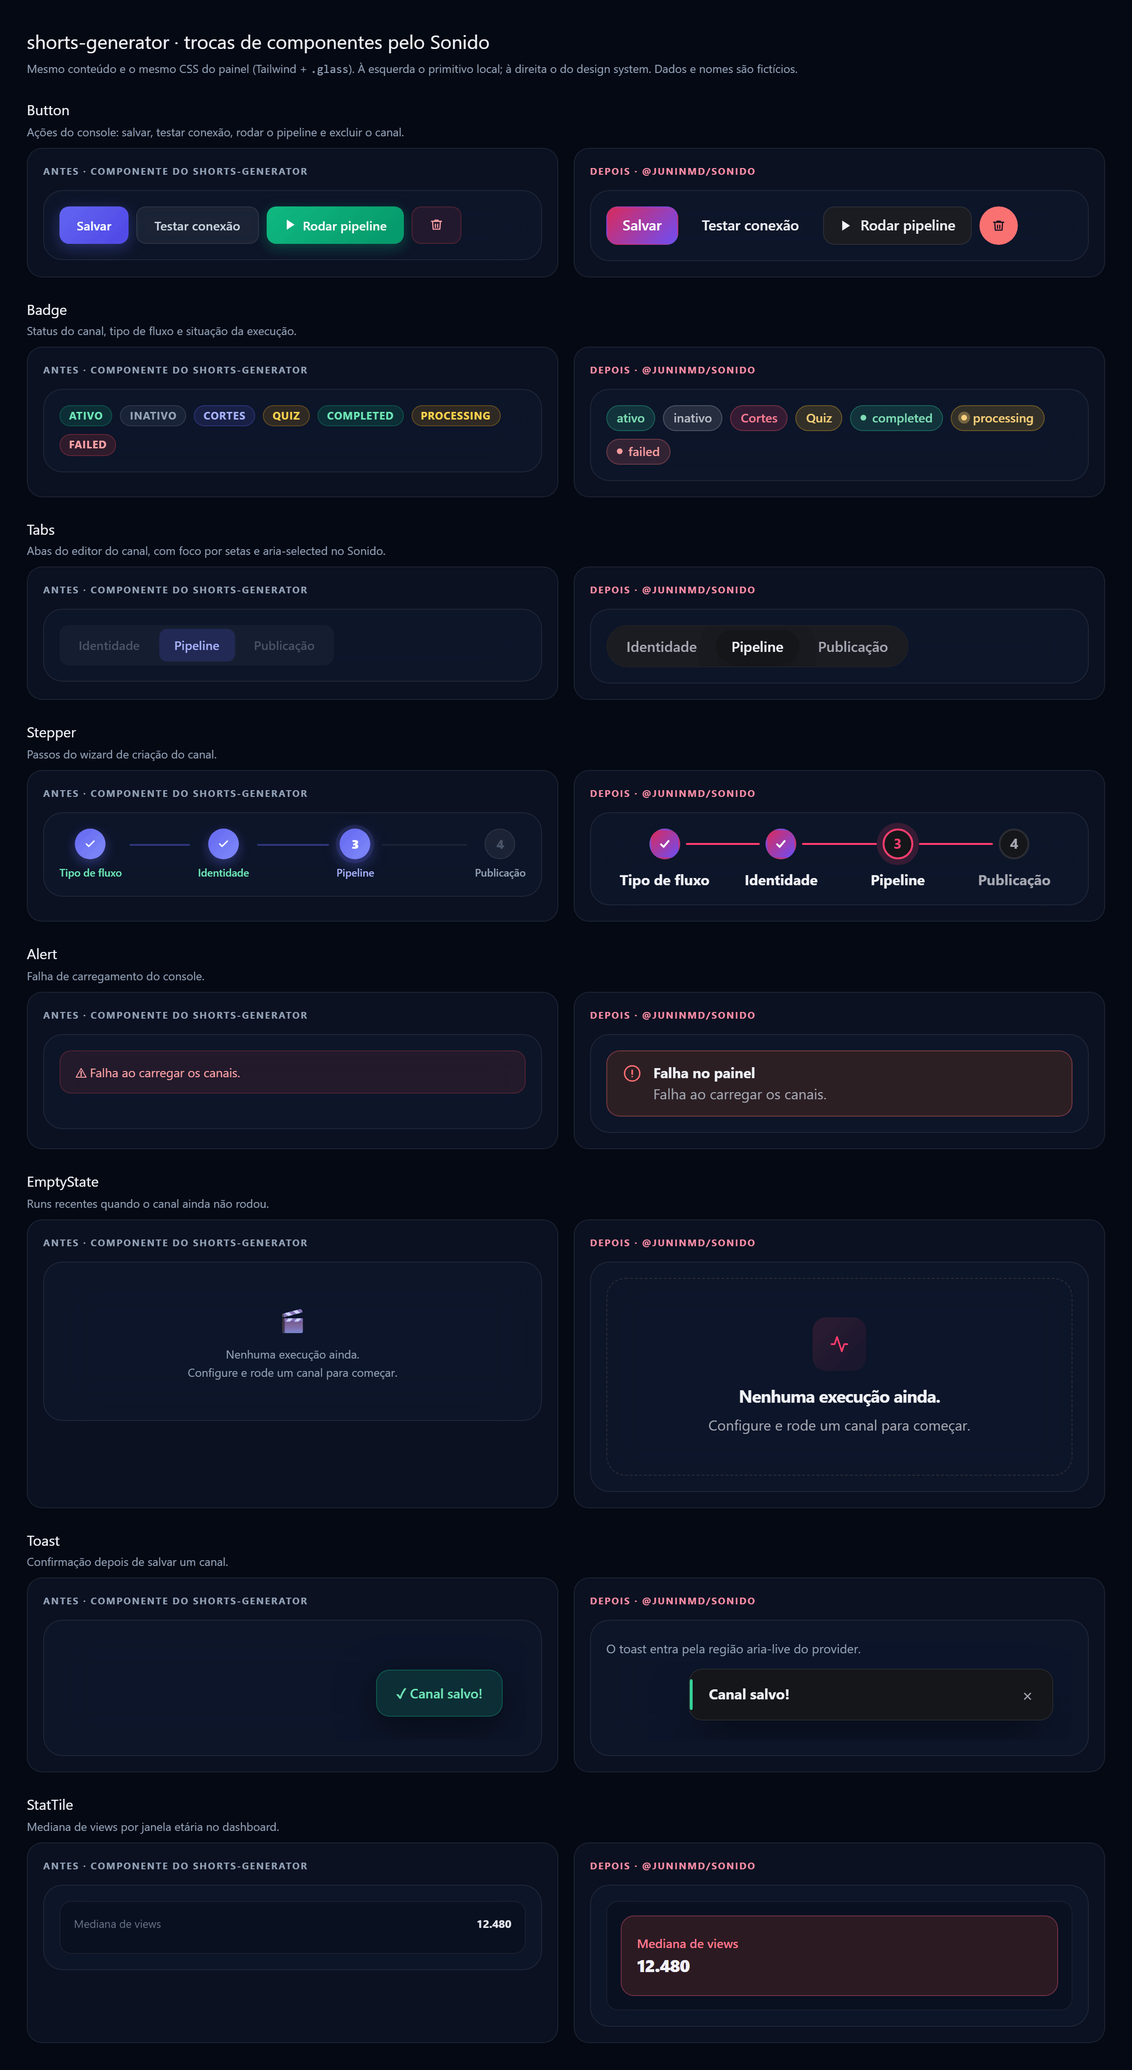
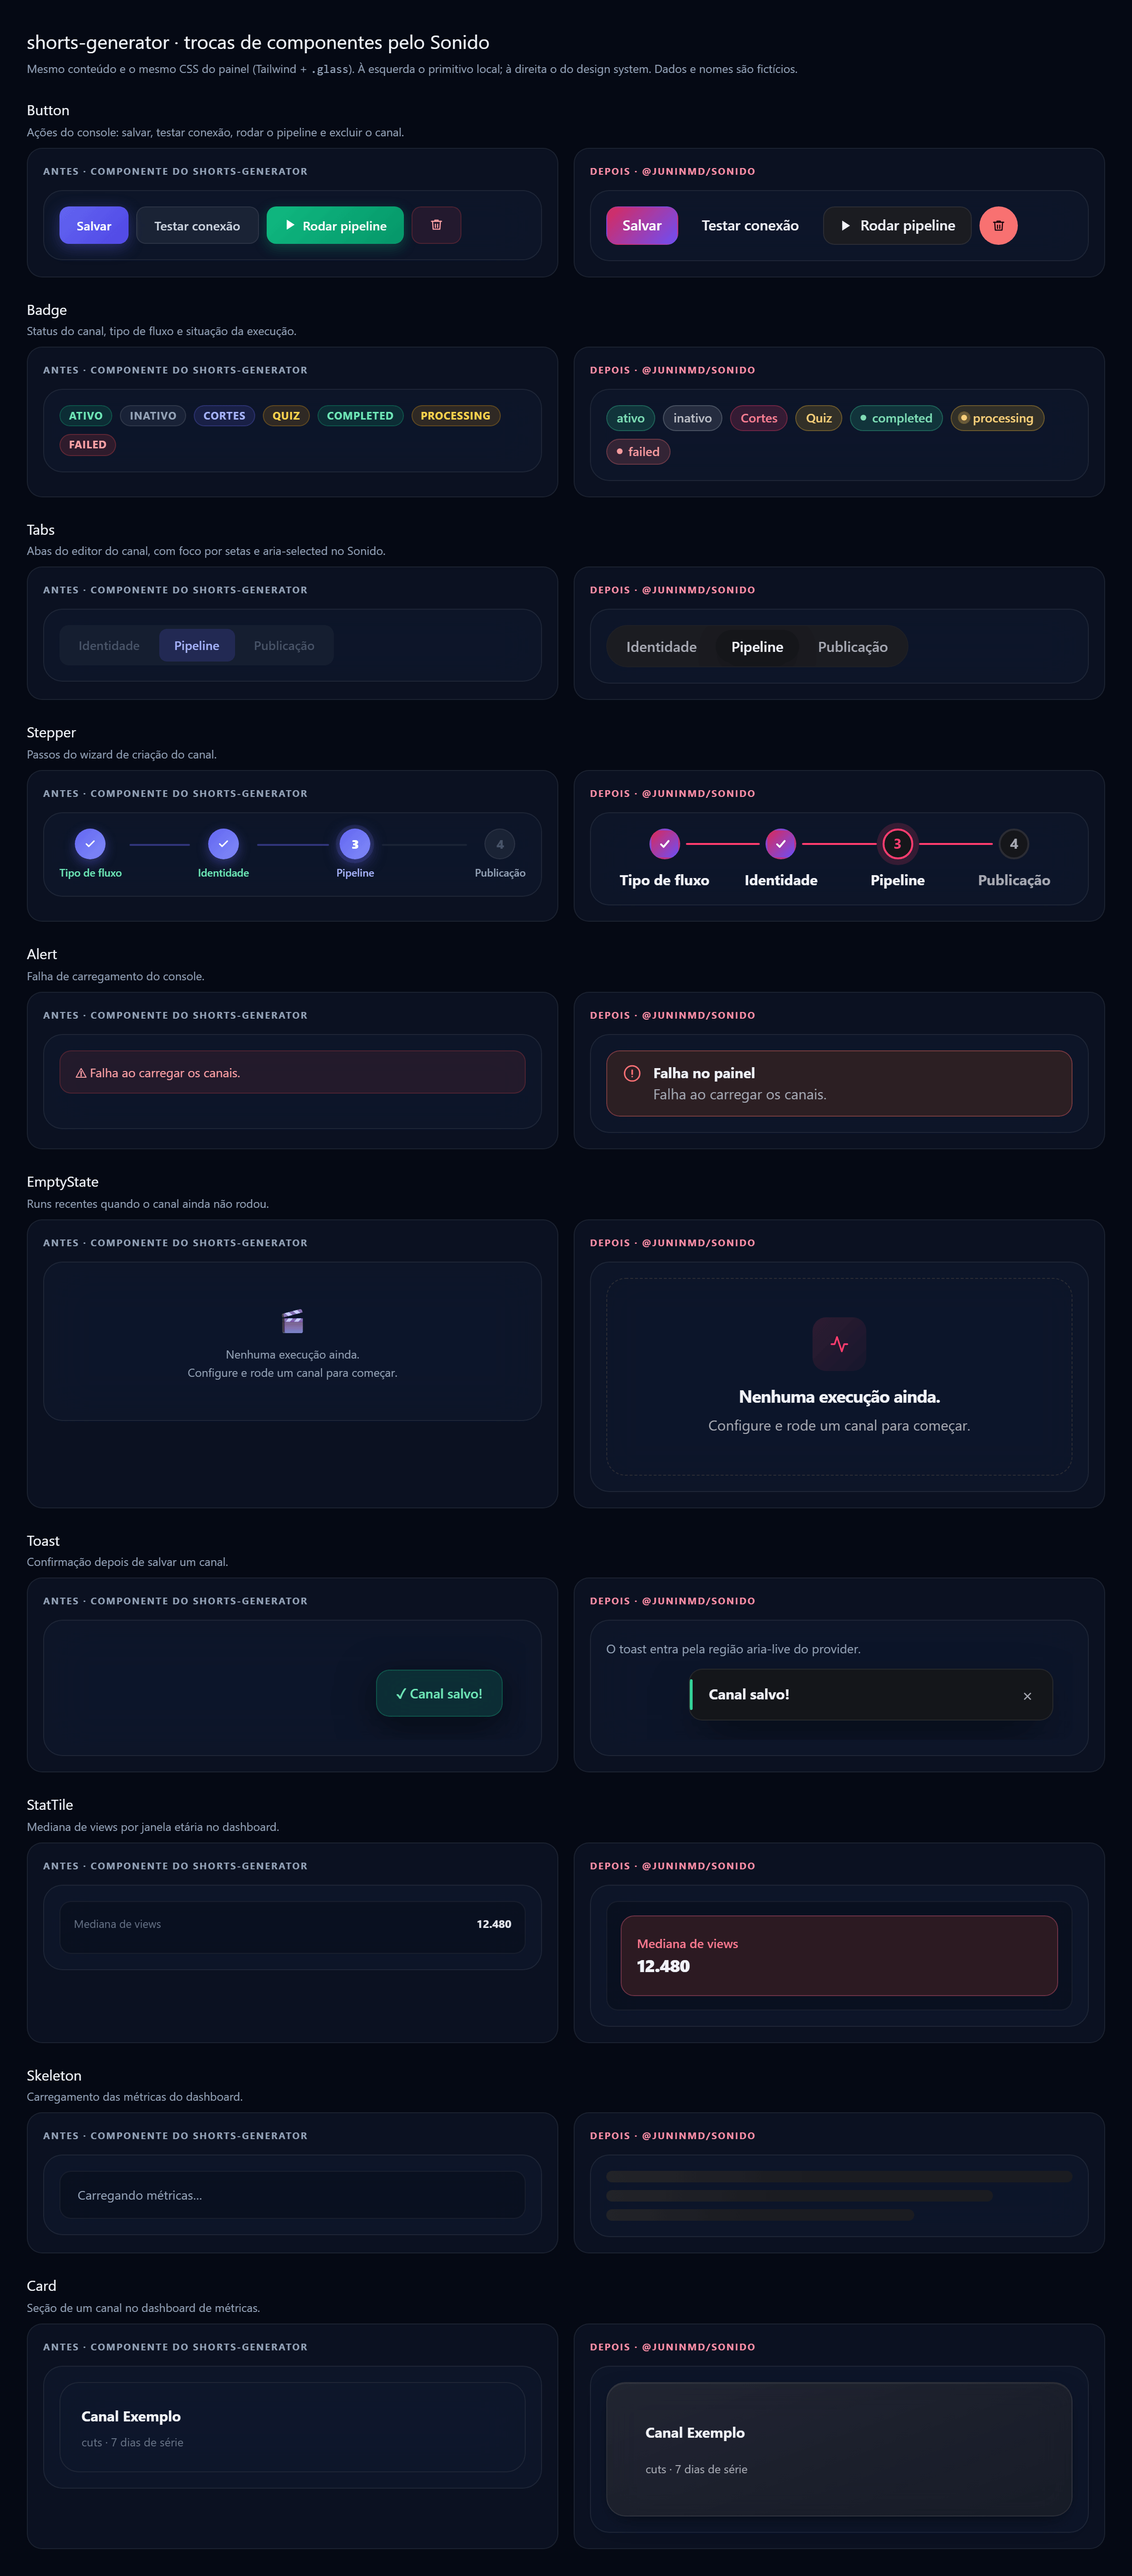
docs(web): incluir Skeleton e Card na comparação do Sonido

diff --git a/docs/sonido-migration/preview.tsx b/docs/sonido-migration/preview.tsx
@@ -4,7 +4,9 @@ import {
   Alert,
   Badge,
   Button,
+  Card,
   EmptyState,
+  Skeleton,
   StatTile,
   Stepper,
   Tabs,
@@ -22,6 +24,7 @@ import { LegacyAlert } from "./legacy/Alert";
 import { LegacyBadge } from "./legacy/Badge";
 import { LegacyButton } from "./legacy/Button";
 import { LegacyEmptyState } from "./legacy/EmptyState";
+import { LegacyNotice } from "./legacy/Notice";
 import { LegacyStatRow } from "./legacy/StatRow";
 import { LegacyTabs } from "./legacy/Tabs";
 import { LegacyToast } from "./legacy/Toast";
@@ -230,6 +233,30 @@ function App() {
         hint="Mediana de views por janela etária no dashboard."
         before={<div className="glass-inset" style={{ padding: 14 }}><LegacyStatRow value="12.480" /></div>}
         after={<div className="glass-inset" style={{ padding: 14 }}><StatTile label="Mediana de views" value="12.480" tone="accent" /></div>}
+      />
+
+      <Row
+        title="Skeleton"
+        hint="Carregamento das métricas do dashboard."
+        before={<LegacyNotice>Carregando métricas…</LegacyNotice>}
+        after={<Skeleton label="Carregando métricas…" rows={3} />}
+      />
+
+      <Row
+        title="Card"
+        hint="Seção de um canal no dashboard de métricas."
+        before={
+          <section className="glass" style={{ padding: 22 }}>
+            <strong style={{ fontSize: 15 }}>Canal Exemplo</strong>
+            <p style={{ margin: "6px 0 0", fontSize: 12, color: "#64748b" }}>cuts · 7 dias de série</p>
+          </section>
+        }
+        after={
+          <Card surface="glass" padding="lg">
+            <strong style={{ fontSize: 15 }}>Canal Exemplo</strong>
+            <p style={{ margin: "6px 0 0", fontSize: 12, color: "#a6a8b2" }}>cuts · 7 dias de série</p>
+          </Card>
+        }
       />
     </div>
   );

diff --git a/docs/sonido-migration/legacy/Notice.tsx b/docs/sonido-migration/legacy/Notice.tsx
@@ -1,0 +1,12 @@
+/**
+ * Antes: o aviso do dashboard. Cópia literal de
+ * `git show origin/master:web/src/components/DashboardPage.tsx` (`function Notice`),
+ * usada no estado de carregamento ("Carregando métricas…").
+ */
+export function LegacyNotice({ children }: { children: string }) {
+  return (
+    <div className="glass-inset" style={{ padding: "14px 18px", color: "#94a3b8", fontSize: ".82rem" }}>
+      {children}
+    </div>
+  );
+}

diff --git a/docs/sonido-migration/README.md b/docs/sonido-migration/README.md
@@ -74,7 +74,7 @@ node node_modules/vite/bin/vite.js --config docs/sonido-migration/vite.preview.c
 As capturas foram feitas em Chromium, viewport 1180×900 com `deviceScaleFactor: 2` e página
 inteira (`fullPage`), com dados fictícios:
 
-- `antes-depois.png` — os 9 primitivos, antes/depois.
+- `antes-depois.png` — os 10 primitivos, antes/depois.
 - `app-console.png` — o console real depois da troca (sem backend, token vazio).
 
 ```bash
